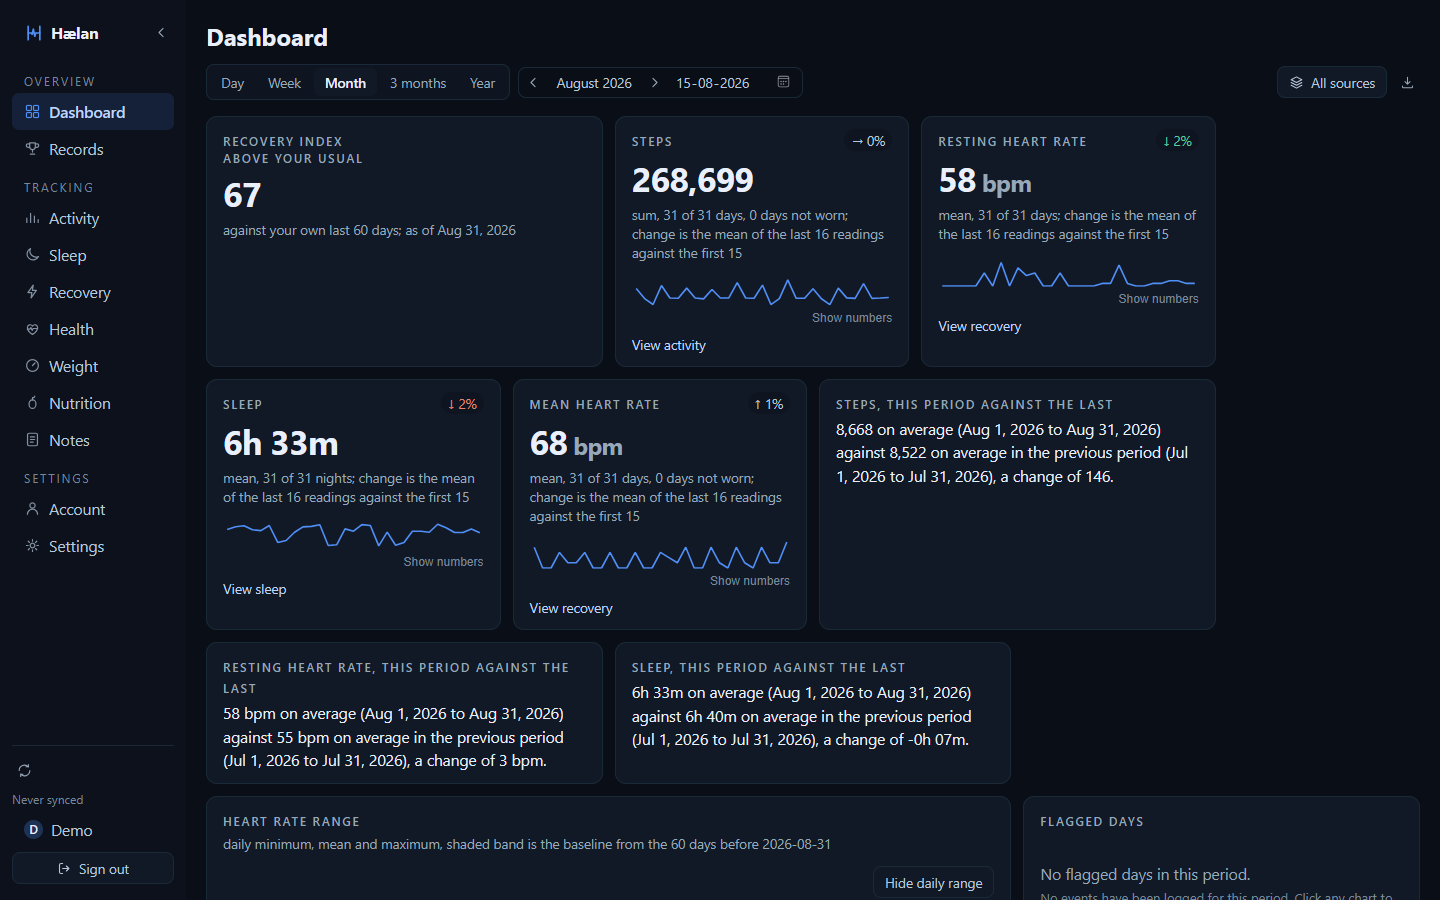
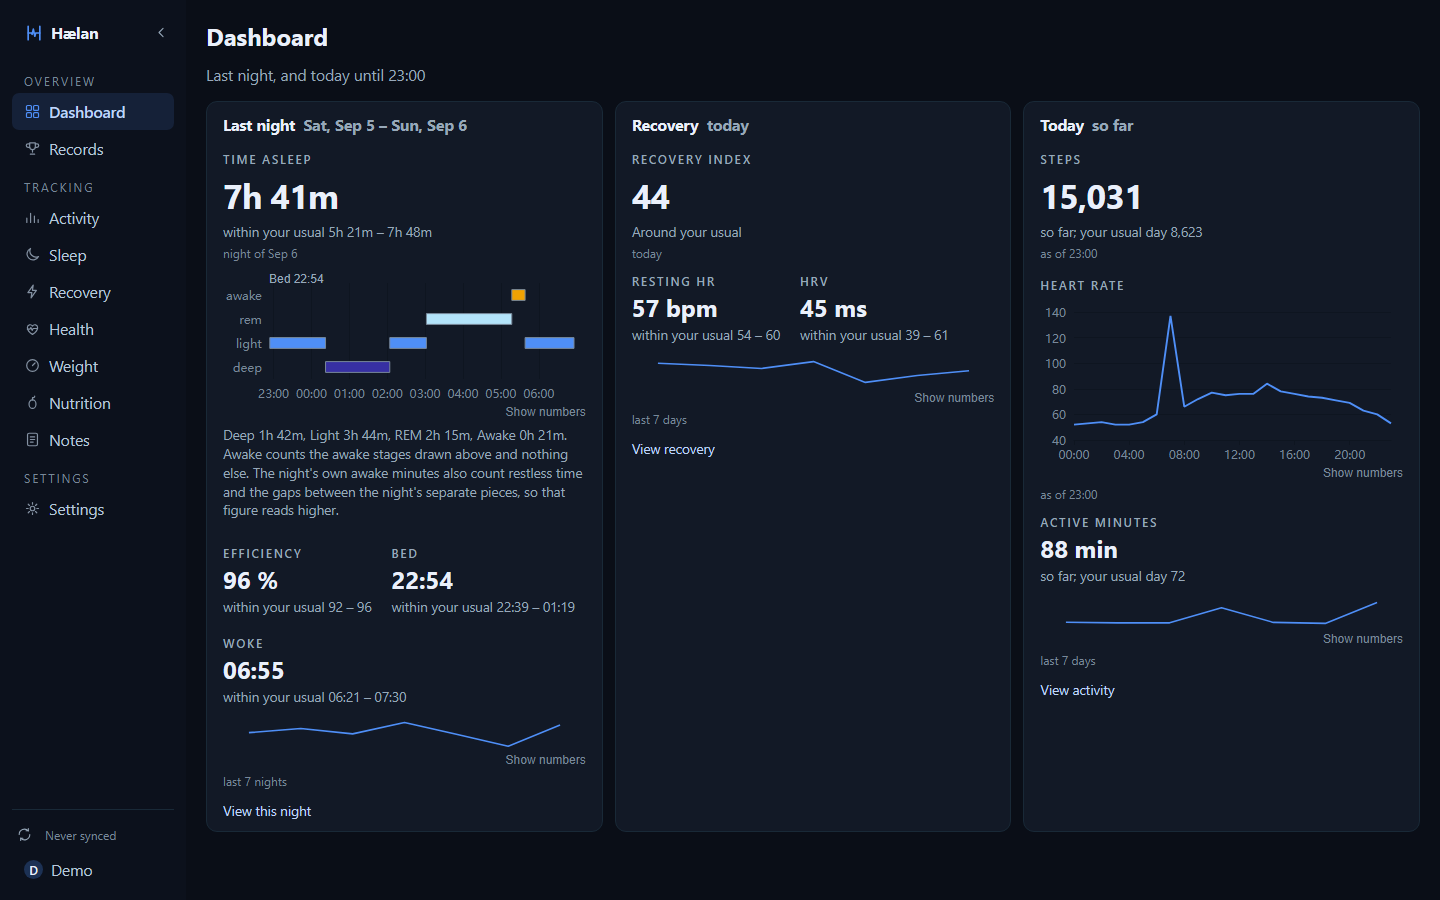
docs: retake the dashboard and recovery screenshots for the glance

diff --git a/site/index.html b/site/index.html
@@ -51,7 +51,7 @@
            second source. -->
       <div class="hero-shot">
         <a class="shot-link" href="#shot-dashboard">
-          <img src="screenshots/dashboard.png" alt="The Hælan dashboard: a recovery index, daily steps, resting heart rate, sleep and mean heart rate, each with a chart for the month and a comparison against the period before it." width="1440" height="900" loading="eager" />
+          <img src="screenshots/dashboard.png" alt="The Hælan dashboard in three columns: last night with its sleep stages, recovery today with resting heart rate and heart rate variability, and today so far with steps, heart rate and active minutes, each against your own usual." width="1440" height="900" loading="eager" />
         </a>
       </div>
     </header>

diff --git a/README.md b/README.md
@@ -46,7 +46,7 @@ catching them is a standing part of how the project is built rather than a past 
      page is built from. Do not edit between the markers by hand: a test regenerates this and fails
      when it disagrees. -->
 <!-- screenshots:start -->
-![The Hælan dashboard: a recovery index, daily steps, resting heart rate, sleep and mean heart rate, each with a chart for the month and a comparison against the period before it.](assets/screenshots/dashboard.png)
+![The Hælan dashboard in three columns: last night with its sleep stages, recovery today with resting heart rate and heart rate variability, and today so far with steps, heart rate and active minutes, each against your own usual.](assets/screenshots/dashboard.png)
 
 ![The Activity page: a year heatmap of daily movement above a list of workouts, each with its distance, duration and average heart rate.](assets/screenshots/activity.png)
 
